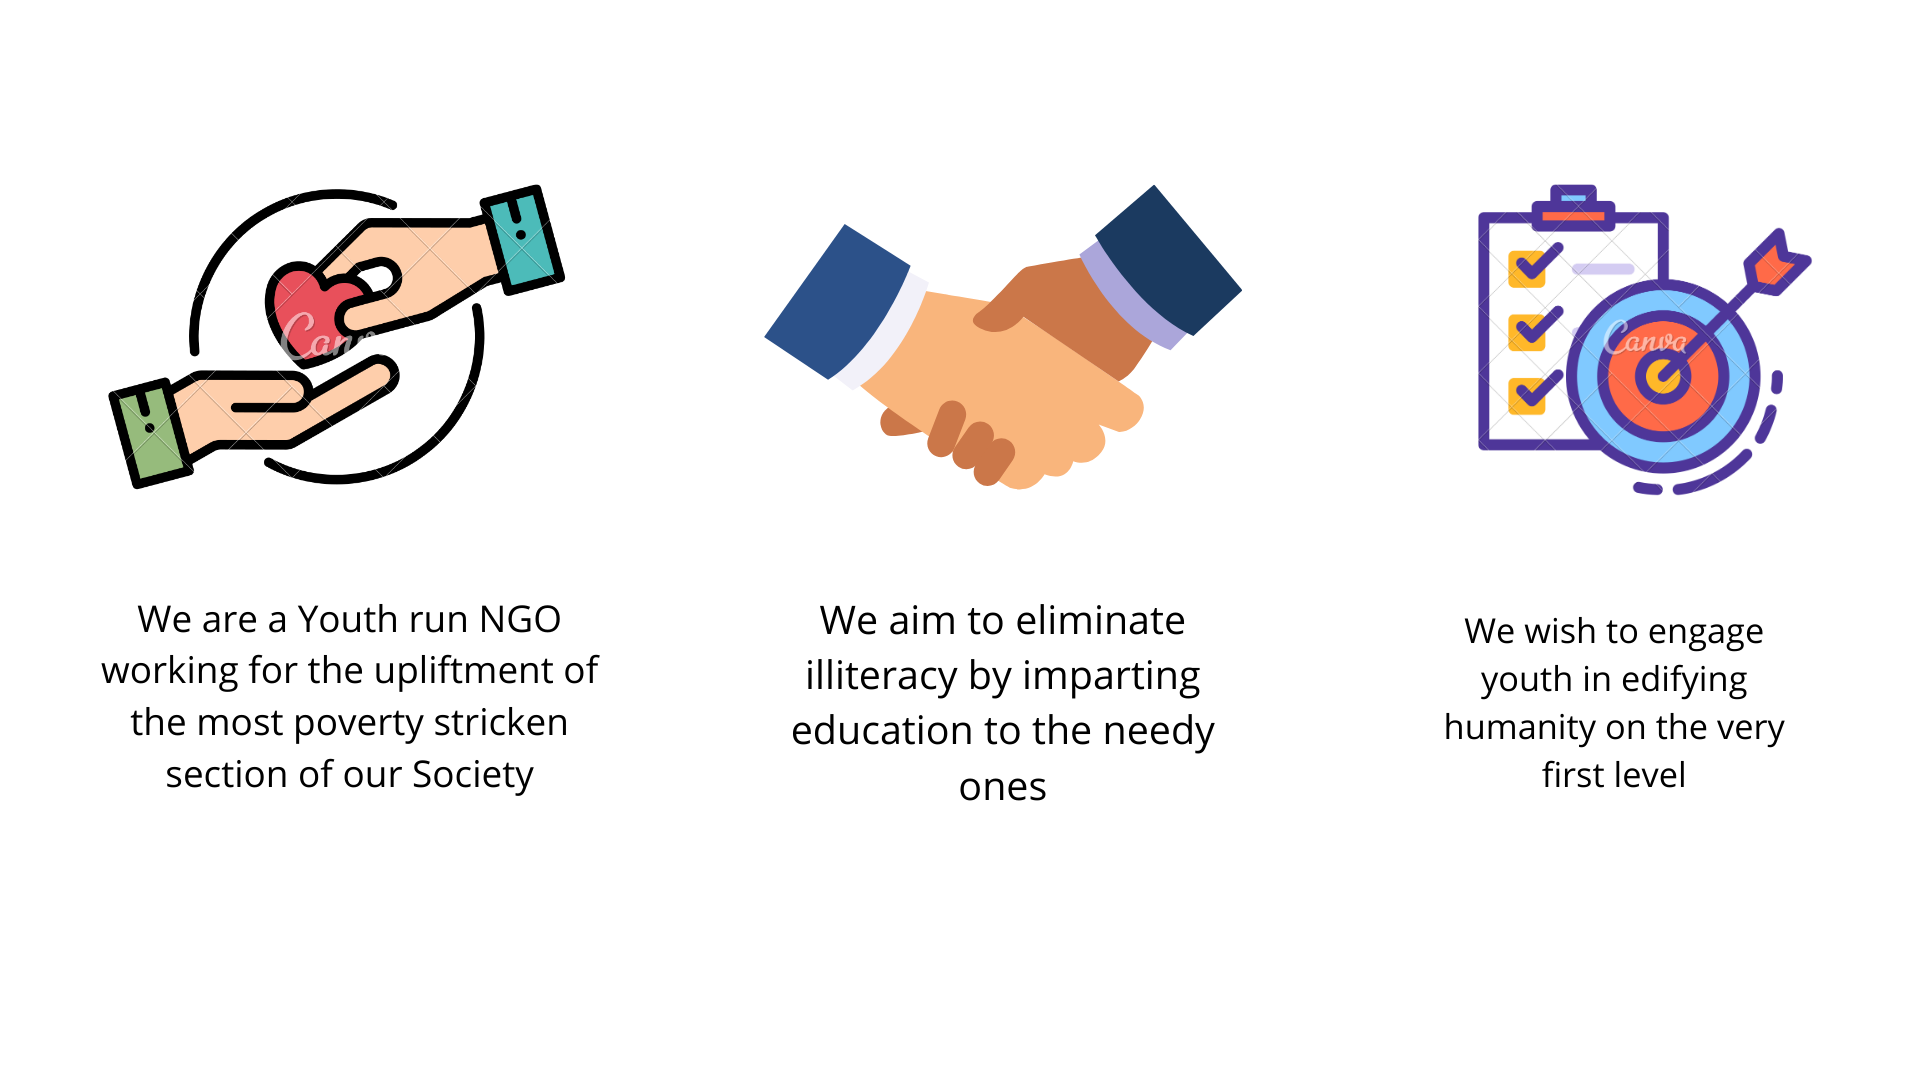
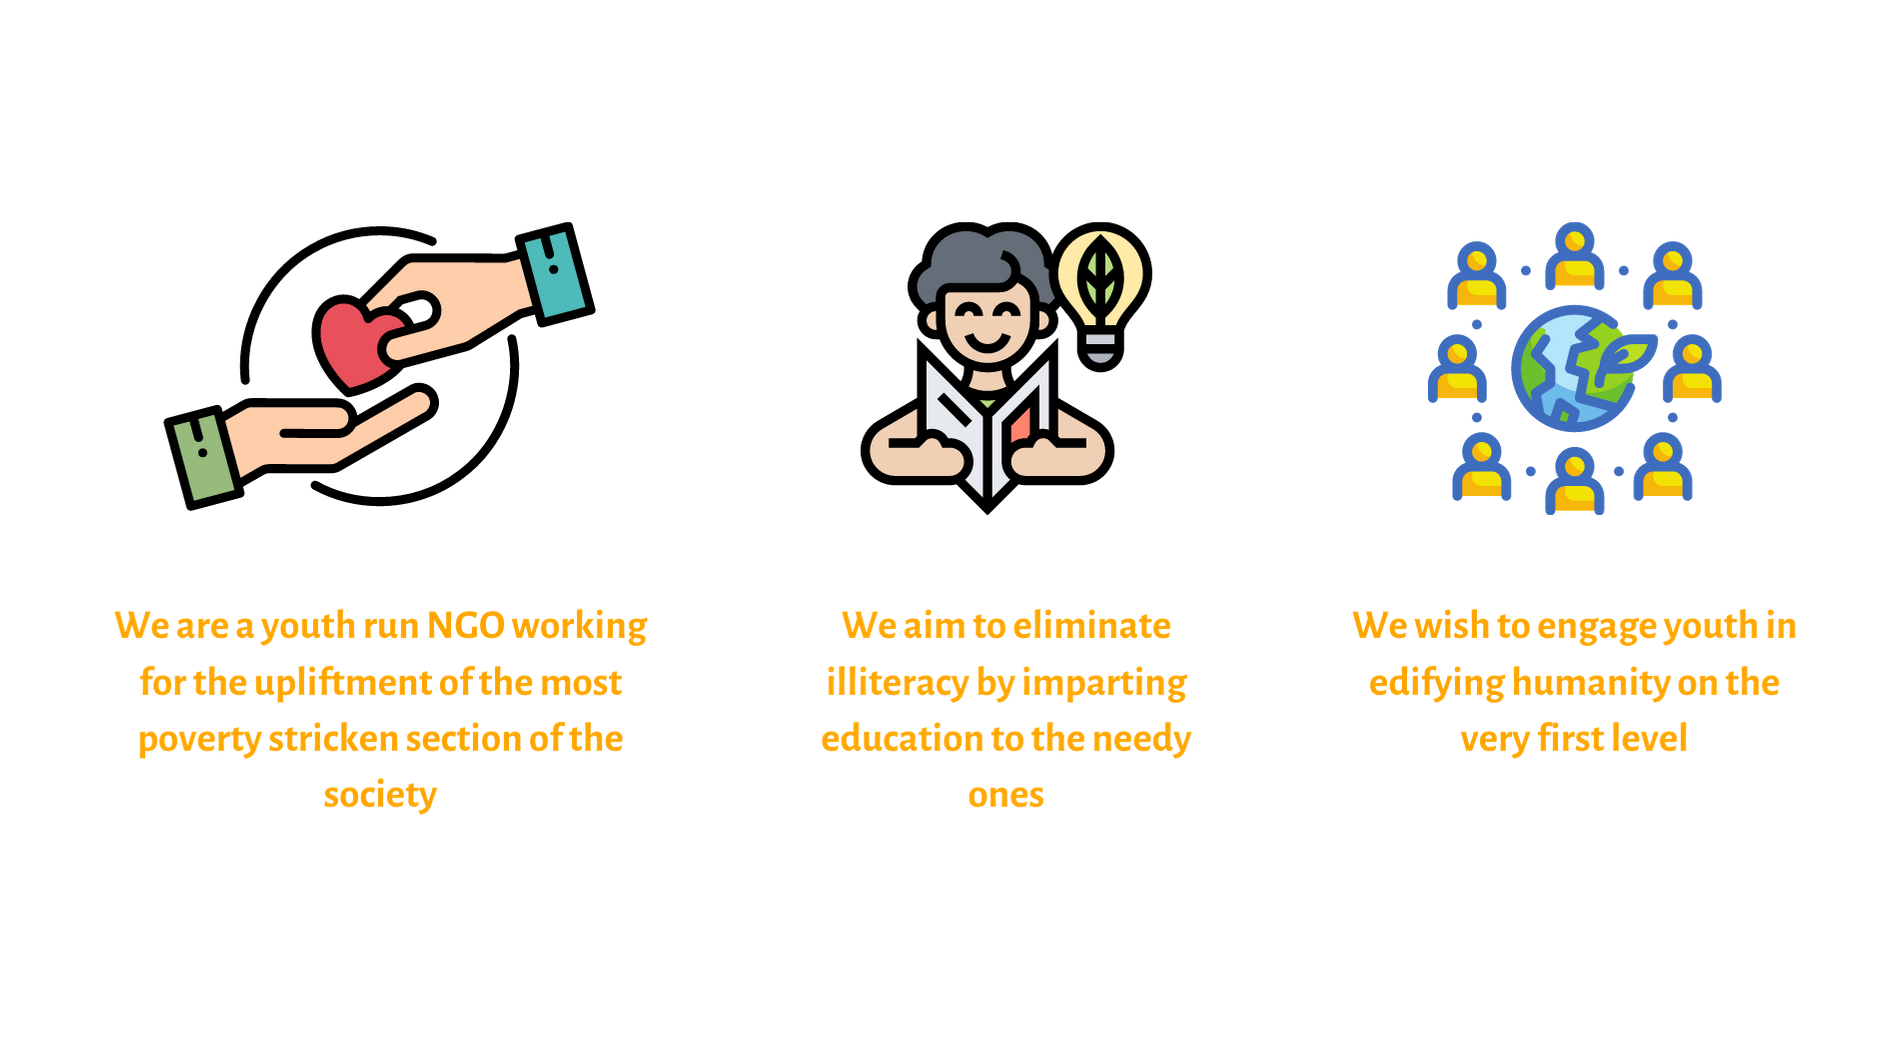
Images changed

diff --git a/index.html b/index.html
@@ -177,9 +177,6 @@
     <!-- Image slider ends -->
 
 
-
-
-
     <!-- about section starts  -->
     <section class="about" id="about" data-aos="fade-right">
         <div>
@@ -206,7 +203,7 @@
         </ul>
         <div class="row" data-aos="fade-right">
             <div class="image" data-aos="fade-left">
-                <img src="images/SAMPURAN.png" id="menu-img" alt="">
+                <img src="images/GYAN.png" id="menu-img" alt="">
             </div>
             <div class="content">
                 <div class="info">
@@ -239,13 +236,9 @@
             <a href="pages/Join-Us/joinus.html"><button class="btn Join">INTERN</button></a>
             <a href="pages/Join-Us/joinus.html"><button class="btn Join">VOLUNTEER</button></a>
         </div>
-        <img class="joinimg" src="images/joinusbanner.png">
+        <img class="joining" src="images/joinusbanner.png">
     </section>
     <!-- Join Us Section Ends -->
-
-
-
-
 
 
     <!-- EVENTS SECTION -->
@@ -265,7 +258,6 @@
             <div class="eventbtnbox">
                 <a href="pages/Events/events.html"><button class="btn Join">MORE <br>EVENTS</button></a>
             </div>
-
 
         </div>
     </section>
